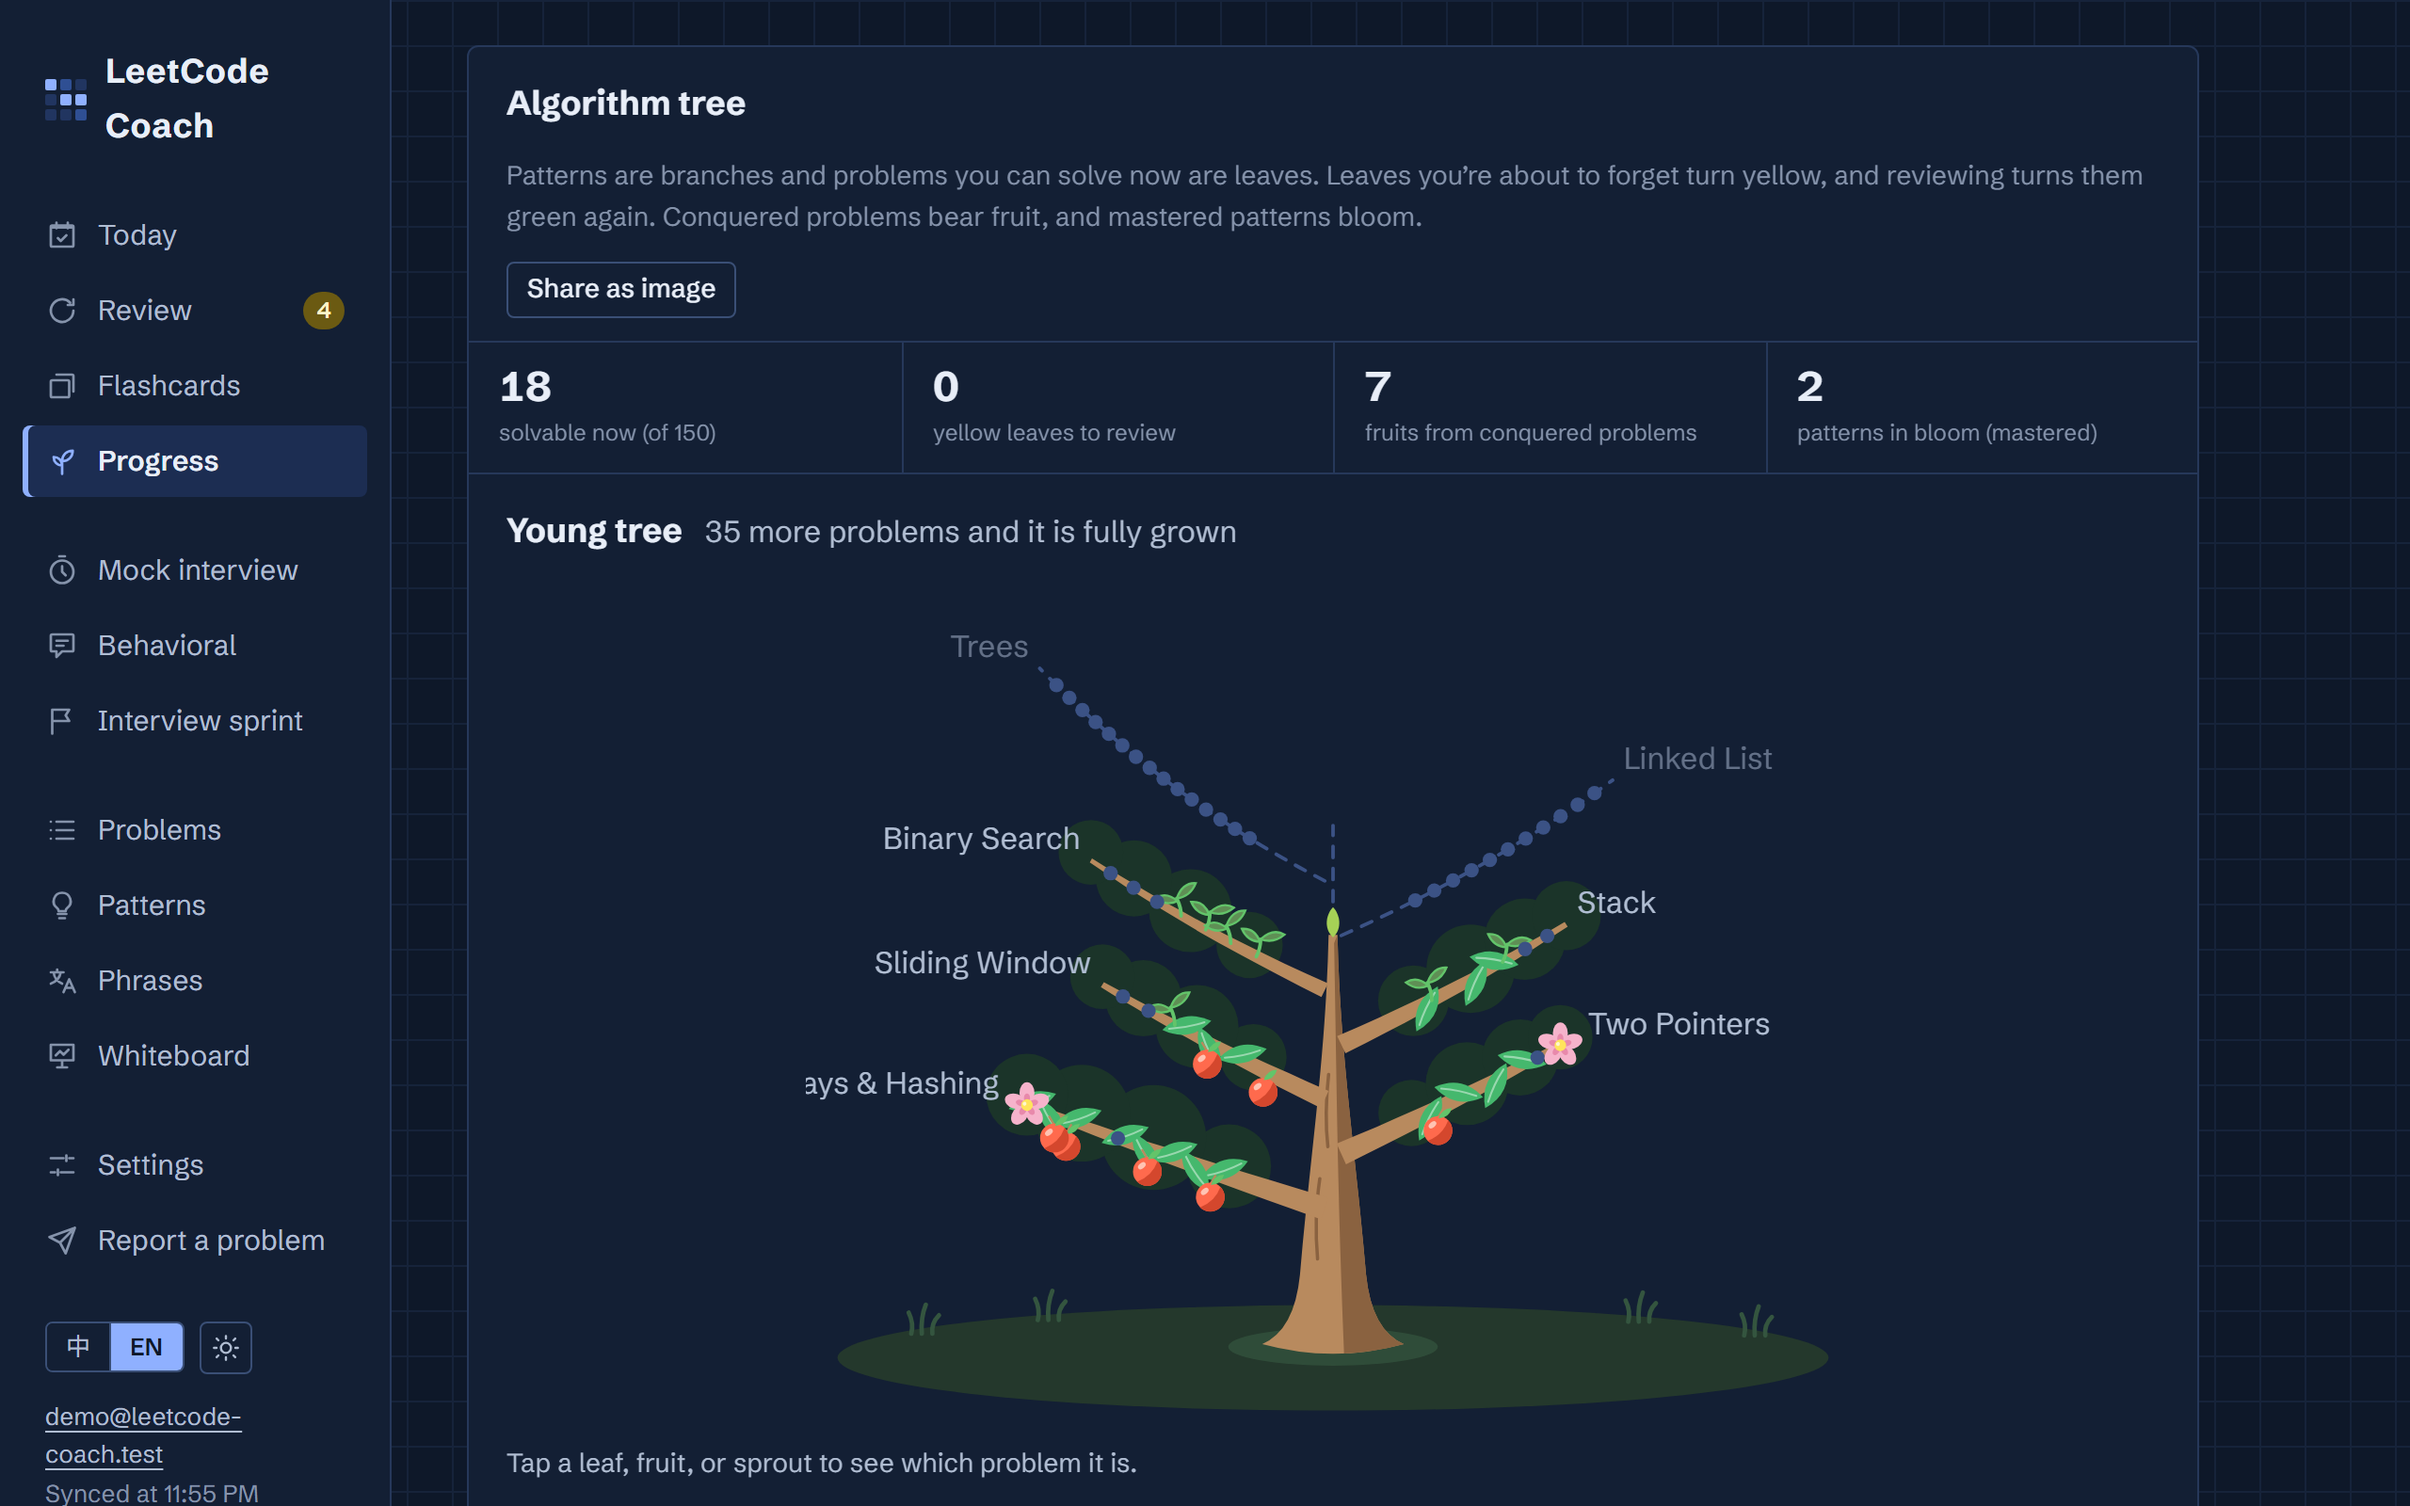
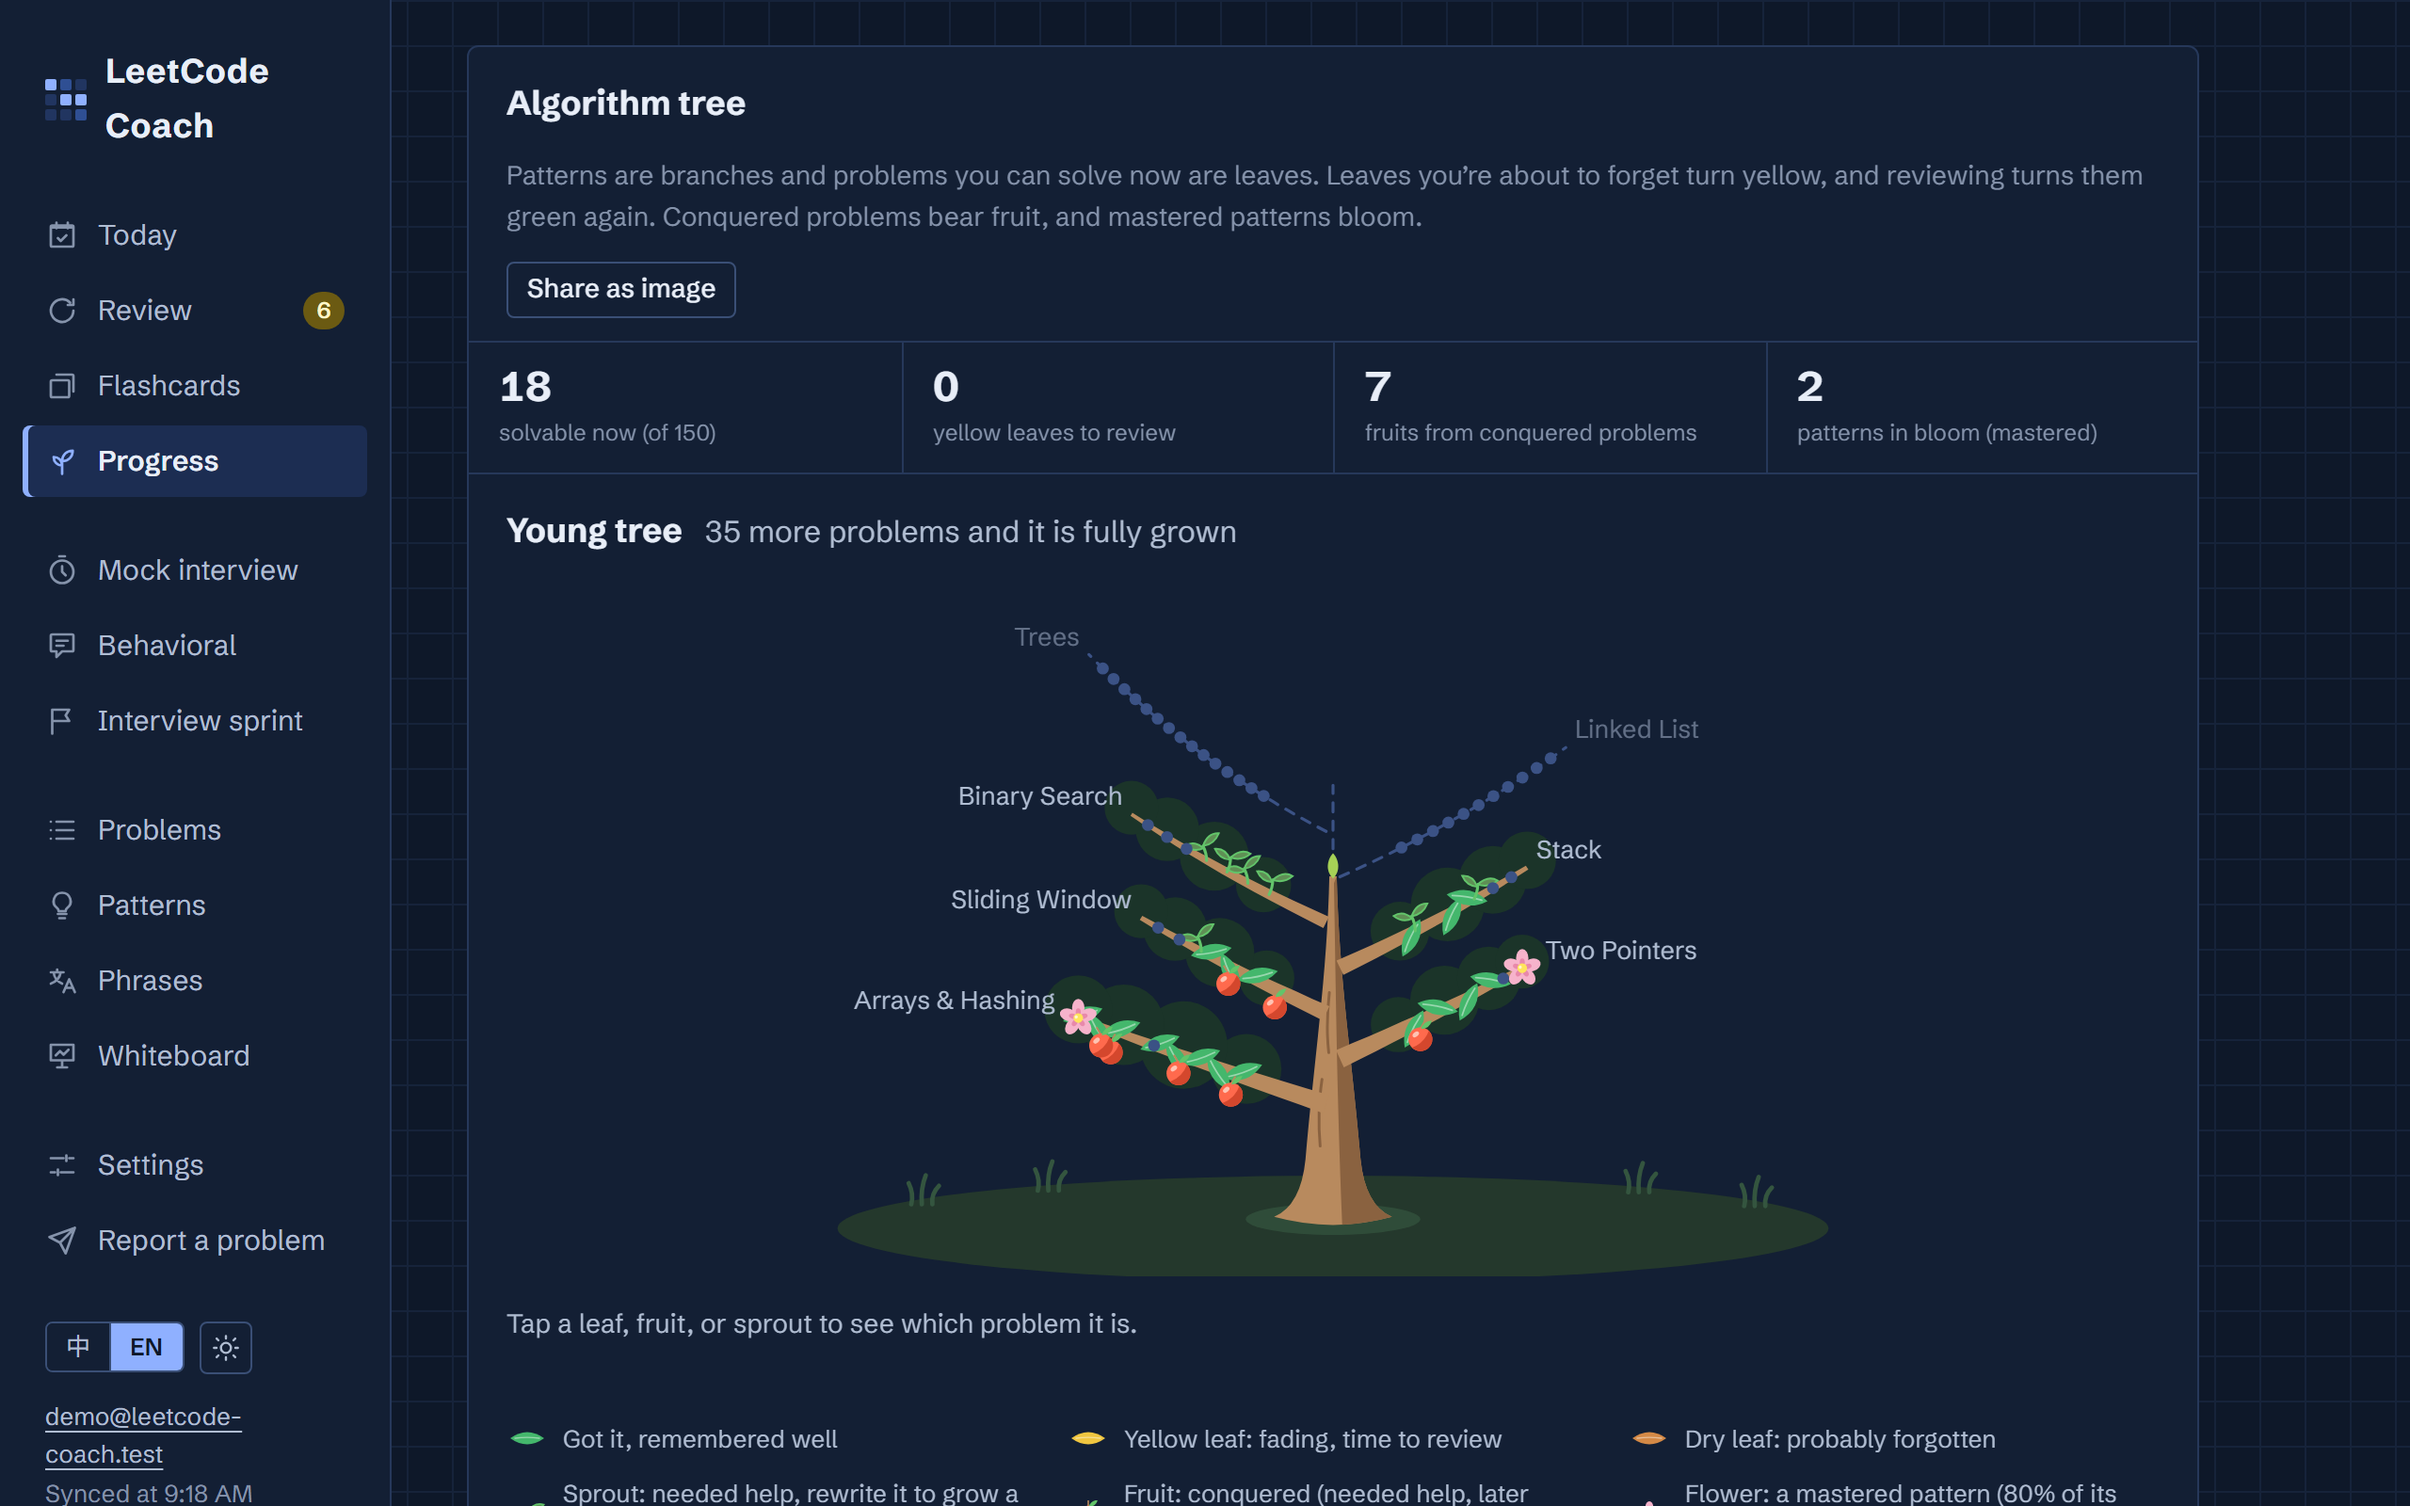
Keep long pattern names inside the algorithm tree
The full tree on Progress left a fixed 80 units beside each branch for
its name. English names are longer than that, so "Arrays & Hashing" on
the demo tree was cut to "ays & Hashing", and on a grown tree names
like "1-D Dynamic Programming" were cut too.

stageView now takes the branch names and leaves room for each one,
using labelWidth to estimate it (about 1em per Chinese character and
0.58em for anything else at the 11px label size). It never leaves less
than the old 80, so trees whose names already fit, including every
Chinese one, are framed exactly as before.

Changed region(s): [[0.2188, 0.4375, 0.875, 1.0], [0.0625, 0.9688, 0.125, 1.0], [0.4062, 0.4062, 0.4375, 0.4375]]

diff --git a/src/lib/tree.test.ts b/src/lib/tree.test.ts
@@ -1,5 +1,5 @@
 import { describe, expect, it } from 'vitest';
-import { PATTERN_ORDER } from '../data/patterns';
+import { getPattern, PATTERN_ORDER, type PatternId } from '../data/patterns';
 import type { Problem } from '../data/problems';
 import { schedule, type Rating } from './srs';
 import {
@@ -12,6 +12,7 @@ import {
   pointOn,
   shadeOf,
   sproutHeight,
+  labelWidth,
   stageView,
   taperedPath,
   TREE_VIEW,
@@ -163,29 +164,45 @@ describe('growth stages', () => {
     expect(stageView('seed', []).width).toBeLessThan(stageView('sprout', []).width);
     // 發芽的莖每長一片葉子就高一截，畫面也跟著框高一點，上面不留一大片空白
     expect(sproutHeight(3)).toBeGreaterThan(sproutHeight(1));
-    expect(stageView('sprout', [], false, 3).height).toBeGreaterThan(stageView('sprout', [], false, 1).height);
+    expect(stageView('sprout', [], undefined, 3).height).toBeGreaterThan(stageView('sprout', [], undefined, 1).height);
     // 莖頂端的新芽（高 11）也要在畫面裡
-    expect(stageView('sprout', [], false, 4).y).toBeLessThan(GROUND - sproutHeight(4) - 11);
+    expect(stageView('sprout', [], undefined, 4).y).toBeLessThan(GROUND - sproutHeight(4) - 11);
     const few = treeLayout([problem(1, 'arrays'), problem(2, 'two-pointers')]);
     const all = treeLayout(PATTERN_ORDER.map((pattern, i) => problem(i + 1, pattern)));
     // 樹枝少，樹幹就短：最上面那根樹枝比完整的樹低很多
     expect(Math.min(...few.map((b) => b.start.y))).toBeGreaterThan(Math.min(...all.map((b) => b.start.y)) + 200);
     // 小樹苗框得比較扁，上面不留一大片空白；沒有題型名稱（今天卡）時左右不用留名稱的位置
-    expect(stageView('sapling', few).height / stageView('sapling', few).width).toBeLessThan(ratio);
-    expect(stageView('sapling', few, false).width).toBeLessThan(stageView('sapling', few).width);
+    const english = (pattern: PatternId) => getPattern(pattern, 'en').name;
+    const chinese = (pattern: PatternId) => getPattern(pattern, 'zh-TW').name;
+    expect(stageView('sapling', few, english).height / stageView('sapling', few, english).width).toBeLessThan(ratio);
+    expect(stageView('sapling', few).width).toBeLessThan(stageView('sapling', few, english).width);
     const half = treeLayout(PATTERN_ORDER.slice(0, 9).map((pattern, i) => problem(i + 1, pattern)));
-    for (const labels of [true, false]) {
+    for (const labelOf of [english, chinese, undefined]) {
       for (const [stage, branches] of [['sapling', few], ['young', half], ['grown', all]] as const) {
-        const view = stageView(stage, branches, labels);
+        const view = stageView(stage, branches, labelOf);
         expect(view.height / view.width).toBeGreaterThanOrEqual(0.6 - 1e-9);
         expect(view.height / view.width).toBeLessThanOrEqual(ratio + 1e-9);
         for (const b of branches) {
           expect(b.end.y).toBeGreaterThan(view.y);
           expect(b.end.x).toBeGreaterThan(view.x);
           expect(b.end.x).toBeLessThan(view.x + view.width);
+          // 題型名稱（從樹枝末端往外，開花的離 10）整個在畫面裡
+          if (labelOf) {
+            const far = b.end.x + b.side * (10 + labelWidth(labelOf(b.pattern)));
+            expect(far).toBeGreaterThan(view.x);
+            expect(far).toBeLessThan(view.x + view.width);
+          }
         }
       }
     }
+  });
+
+  it('estimates how wide a pattern name is, wider for long English names', () => {
+    // 以前左右固定留 80，「Arrays & Hashing」放不下
+    expect(labelWidth(getPattern('arrays', 'en').name) + 4).toBeGreaterThan(80);
+    expect(labelWidth(getPattern('dp-1d', 'en').name)).toBeGreaterThan(labelWidth(getPattern('stack', 'en').name));
+    // 中文一個字比英文字母寬
+    expect(labelWidth(getPattern('stack', 'zh-TW').name) / [...getPattern('stack', 'zh-TW').name].length).toBeGreaterThan(labelWidth('Stack') / 5);
   });
 
   it('counts every problem you have done toward the stage', () => {

diff --git a/src/lib/tree.ts b/src/lib/tree.ts
@@ -235,13 +235,24 @@ const STAGE_FRAME: Record<TreeStage, { width: number; height: number; flat: numb
 };
 
 /**
+ * 題型名稱大約多寬（11px 的字，見 styles.css 的 .algo-label）：中文一個字約 1em，英文、數字和符號平均不到 0.6em。
+ * 只用來框畫面，寧可估寬一點
+ */
+export function labelWidth(name: string): number {
+  let width = 0;
+  for (const ch of name) width += ch.codePointAt(0)! >= 0x2e80 ? 11 : 6.4;
+  return width;
+}
+
+/**
  * 畫面範圍：依樹現在的大小框起來，樹還小的時候拉近，不會縮成一個點，上面也不會留一大片空白。
- * 有題型名稱時左右要留名稱的位置；最高跟完整的樹一樣
+ * 有題型名稱（labelOf）時左右要留名稱的位置，名稱長就留多一點（英文的「1-D Dynamic Programming」很長）；
+ * 最高跟完整的樹一樣
  */
 export function stageView(
   stage: TreeStage,
   branches: readonly Branch[],
-  labels = true,
+  labelOf?: (pattern: PatternId) => string,
   seedlings = 0,
 ): { x: number; y: number; width: number; height: number } {
   const bottom = GROUND + 35;
@@ -249,7 +260,9 @@ export function stageView(
   let width = STAGE_FRAME[stage].width;
   let top = GROUND - (stage === 'sprout' ? sproutHeight(seedlings) + 28 : STAGE_FRAME[stage].height);
   for (const b of branches) {
-    width = Math.max(width, 2 * (Math.abs(b.end.x - TRUNK_X) + (labels ? 80 : 30)));
+    // 名稱離樹枝末端 4（開花的 10），再留一點空
+    const room = labelOf ? Math.max(80, 16 + labelWidth(labelOf(b.pattern))) : 30;
+    width = Math.max(width, 2 * (Math.abs(b.end.x - TRUNK_X) + room));
     // 樹幹會長到最上面那根樹枝再高一點（見 TreeSvg）
     top = Math.min(top, b.end.y - 30, b.start.y - 40);
   }

diff --git a/e2e/tree.spec.ts b/e2e/tree.spec.ts
@@ -18,6 +18,17 @@ test('grows the algorithm tree from practice, small on Today and in full on Prog
   const tree = page.getByRole('region', { name: 'Algorithm tree' });
   await expect(tree).toBeVisible();
   await expect(tree.locator('.algo-label')).toContainText(['Arrays & Hashing']);
+  // 題型名稱整個在畫面裡（英文名稱比較長，以前左邊的「Arrays & Hashing」會被切掉）
+  const clipped = await tree.locator('svg.algo-tree').evaluate((svg) => {
+    const view = (svg as SVGSVGElement).viewBox.baseVal;
+    return [...svg.querySelectorAll<SVGTextElement>('text.algo-label')]
+      .filter((label) => {
+        const box = label.getBBox();
+        return box.x < view.x || box.x + box.width > view.x + view.width;
+      })
+      .map((label) => label.textContent);
+  });
+  expect(clipped).toEqual([]);
   // 示範資料做過的題目長了葉子，征服的結了果實，還沒做的是虛線上的小點
   expect(await tree.locator('.algo-leaf').count()).toBeGreaterThan(10);
   expect(await tree.locator('.algo-fruit').count()).toBeGreaterThan(0);

diff --git a/src/components/AlgorithmTree.tsx b/src/components/AlgorithmTree.tsx
@@ -79,7 +79,7 @@ export function TreeSvg({
 }) {
   const { locale } = useI18n();
   const grown = useGrown(state);
-  const view = stageView(stage, branches, labels, seedlings.length);
+  const view = stageView(stage, branches, labels ? (pattern) => getPattern(pattern, locale).name : undefined, seedlings.length);
   // 樹幹：會的題目越多越粗；長到最高那根做過的題型再高一點，再上面還沒做的題型只畫藍色虛線
   const w = 7 + Math.min(14, state.ready * 0.35);
   const top = Math.min(...branches.map((b) => b.start.y)) - 20;
